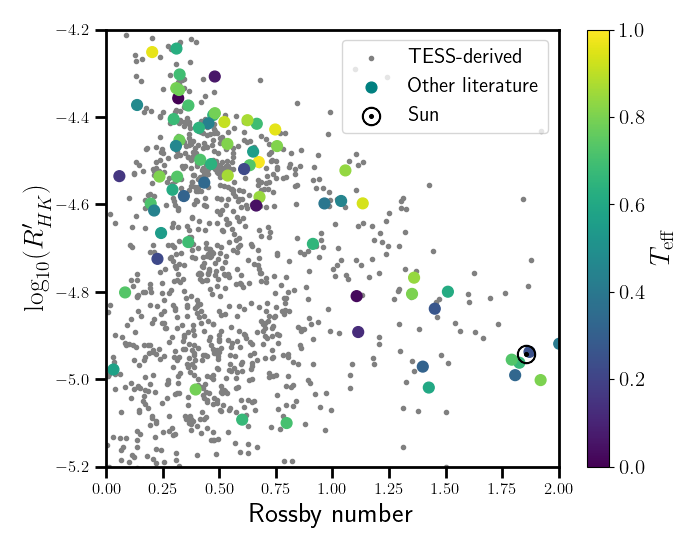
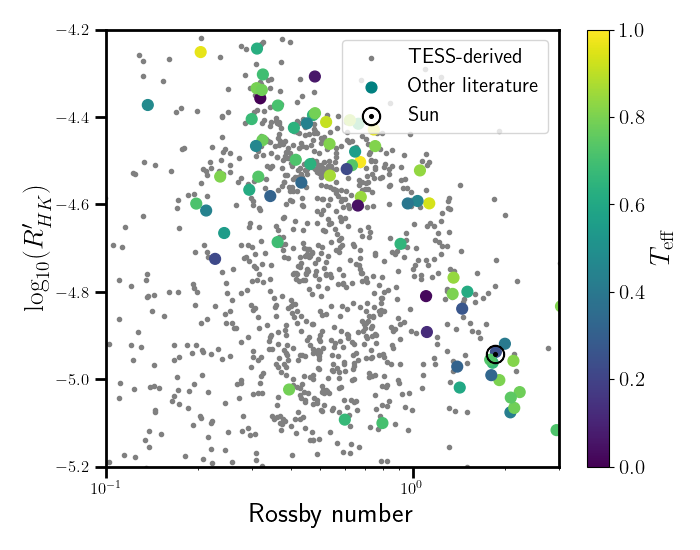
Changes following 5/18 meeting

diff --git a/TSS Activity and Rotation Catalog/arc_table_descriptions.tex b/TSS Activity and Rotation Catalog/arc_table_descriptions.tex
@@ -18,10 +18,10 @@ S_index_adopt & Units & Type & Description & 147 & 392 & 2034\\
 RHK_adopt & Units & Type & Description & 123 & 311 & 1236\\
 RHK_calculated_marvin23 & Units & Type & Description & 147 & 385 & 2002\\
 RHK_calculated_pyastro & Units & Type & Description & 130 & 290 & 1571\\
-prot_adopt & Units & Type & Description & 118 & 325 & 5639\\
+prot_adopt & Units & Type & Description & 118 & 325 & 5634\\
 r_prot_adopt & Units & Type & Description & $\ldots$ & $\ldots$ & $\ldots$\\
-tau & Units & Type & Description & 164 & 495 & 12123\\
+tau_cranmer11 & Units & Type & Description & 164 & 495 & 12123\\
 act_cycle_adopt & Units & Type & Description & 31 & 41 & 46\\
-phot_jitter_adopt & Units & Type & Description & 98 & 302 & 5603\\
+phot_jitter_adopt & Units & Type & Description & 98 & 302 & 5598\\
 \enddata
 \end{deluxetable}